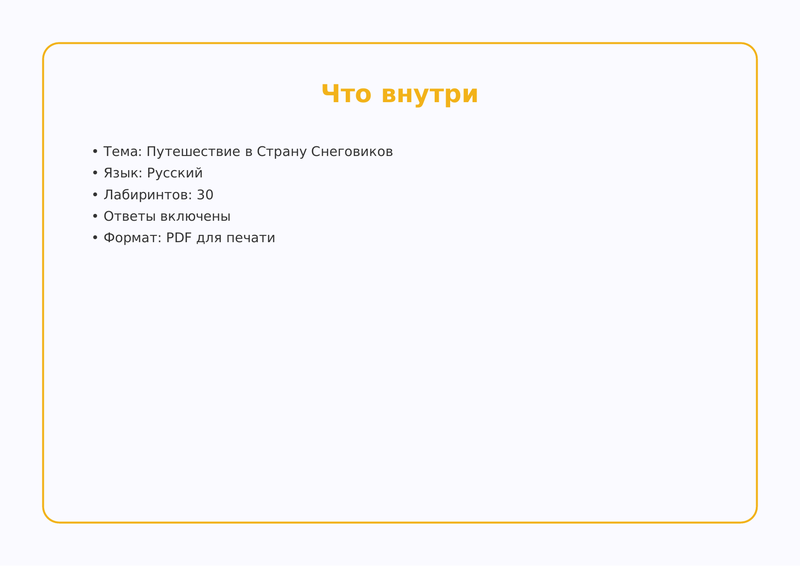
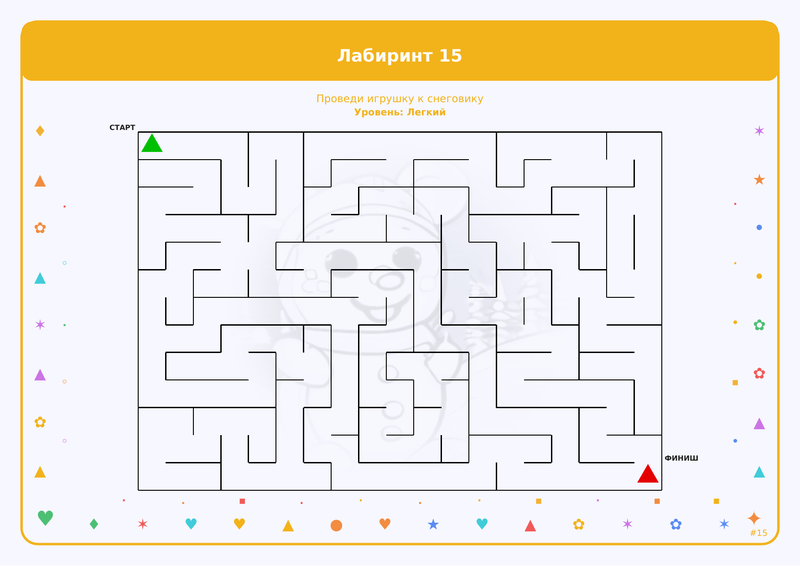
docs: замена preview на настоящую страницу лабиринта + страница ответа
maze_page.png — теперь реальная страница-задание (Лабиринт 15),
ранее показывала вводную страницу книги. Добавлена answer_page.png
(страница решений с красным маршрутом) в таблицу примеров.

Generated with [Devin](https://devin.ai)

diff --git a/README.md b/README.md
@@ -237,13 +237,13 @@ Output lands in `output/book_N/`: `book.pdf` + `book_print_friendly.pdf`,
 
 A generated book (preset `en_kids_basic`, 20 pages):
 
-| Cover | Spread | Maze page |
-|-------|--------|-----------|
-| ![Cover](static/book_cover.png) | ![Spread](static/book_spread.png) | ![Maze page](static/maze_page.png) |
+| Cover | Maze page | Answer page |
+|-------|-----------|-------------|
+| ![Cover](static/book_cover.png) | ![Maze page](static/maze_page.png) | ![Answer page](static/answer_page.png) |
 
-| Preview collage | Promo banner | AI illustration |
-|-----------------|--------------|-----------------|
-| ![Collage](static/book_collage.png) | ![Promo](static/book_promo.png) | ![Illustration](static/illustration.png) |
+| Spread | Preview collage | Promo banner | AI illustration |
+|--------|-----------------|--------------|-----------------|
+| ![Spread](static/book_spread.png) | ![Collage](static/book_collage.png) | ![Promo](static/book_promo.png) | ![Illustration](static/illustration.png) |
 
 ## 🗺 Roadmap / known limitations
 
